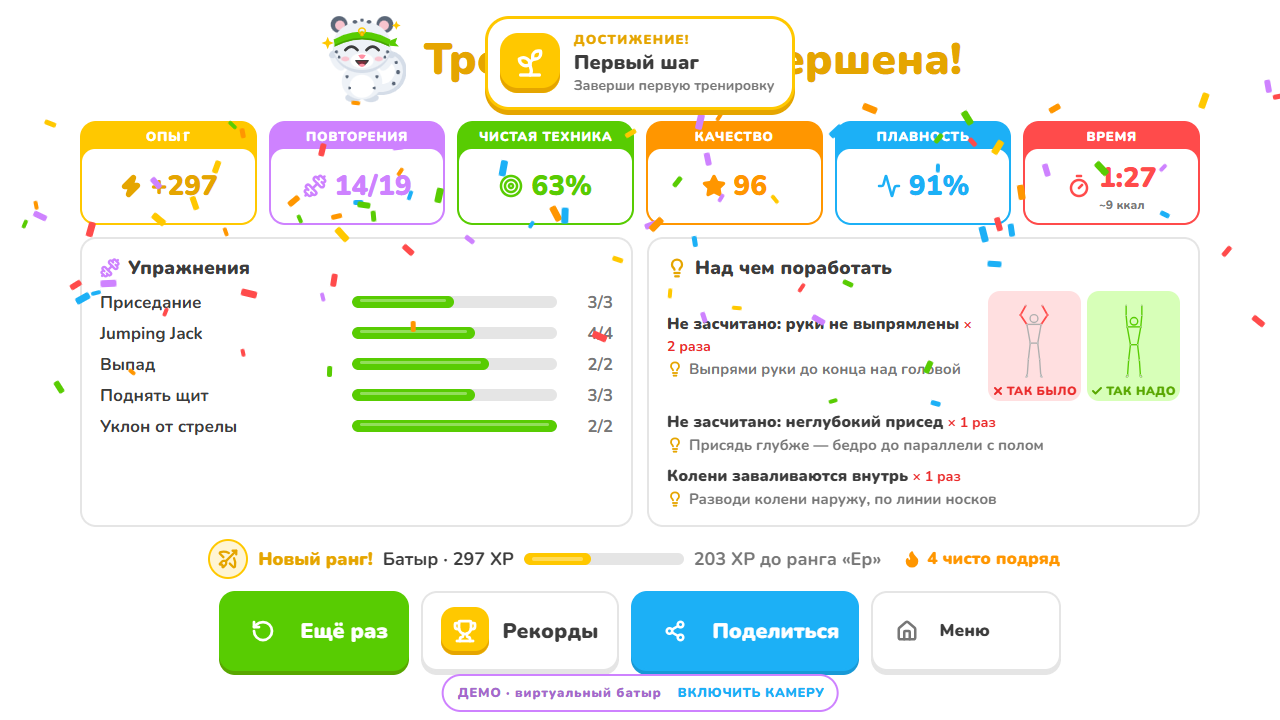
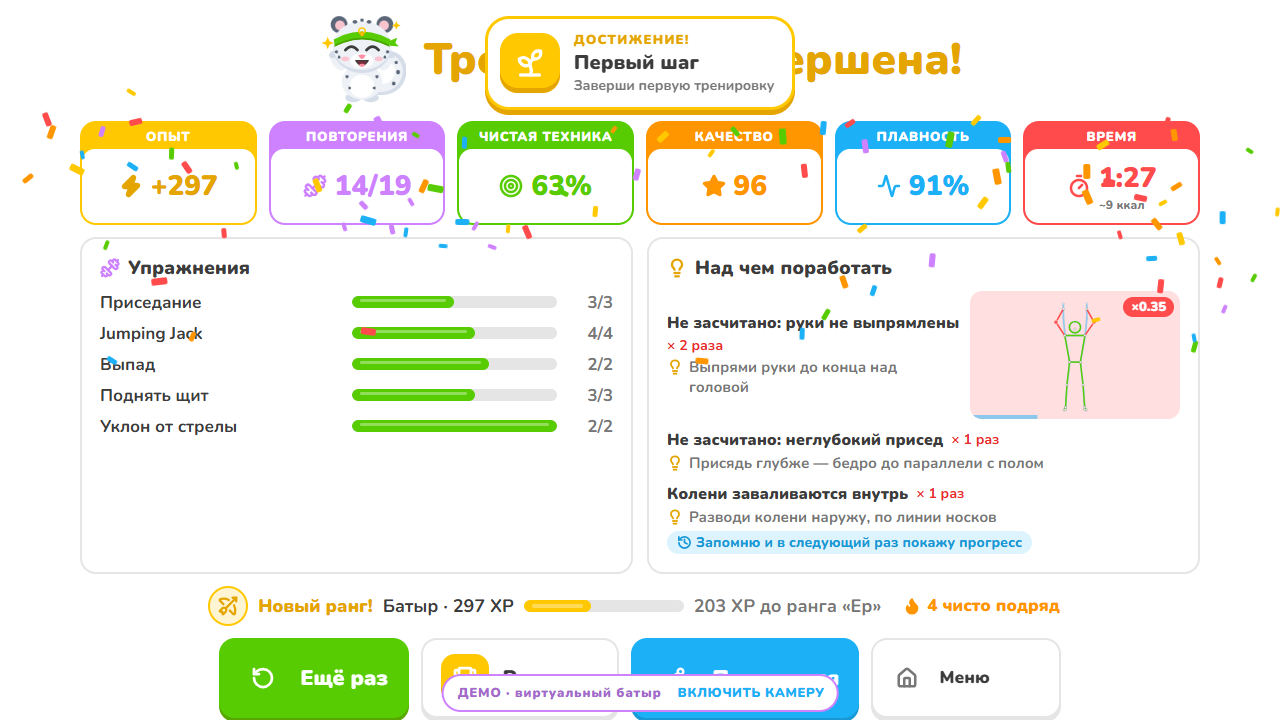
chore(release): v1.0.0 — ready for submission
- docs/SUBMISSION.md rewritten for the current app: 8 exercises (push-ups from the side
  or the front), fist click, exit button, duel, Qara Zhorga, slow-motion replay,
  progress on mistakes, 34 technique + 10 framing rules, 235+ tests; checklist updated
  (what is done, what is left: push, Netlify branch, Supabase SQL).
- README: the new features, fresh screenshots from `npm run e2e -- --shots docs/img`
  (+ the dance and the duel in play; the leaderboard with sample records).
- e2e: the duel is joined and both players score, the exit button leaves it, the dance
  song starts and moves are judged — 31/31 checks pass.
- package.json version 1.0.0.

diff --git a/README.md b/README.md
@@ -16,10 +16,12 @@
 | ![intro](docs/img/intro.png) | ![results](docs/img/results.png) |
 | **Меню жестами: рука — курсор, «зеркало» камеры** | **Батыр Челлендж: команды, сердца, серия** |
 | ![menu](docs/img/menu.png) | ![challenge](docs/img/challenge.png) |
-| **Свободная тренировка: AI распознаёт упражнение** | **Рекорды, лидерборд, достижения** |
+| **Свободная тренировка: AI распознаёт упражнение** | **Лидерборд: пьедестал, твоё место, свободные места** |
 | ![free](docs/img/free.png) | ![records](docs/img/records.png) |
+| **«Қара жорға»: движения точно в долю под домбру** | **Дуэль: двое перед одной камерой** |
+| ![dance](docs/img/dance-play.png) | ![duel](docs/img/duel-play.png) |
 
-<sub>Скриншоты сняты автоматически (`npm run e2e -- --shots docs/img`) в демо-режиме: виртуальный батыр специально ошибается, движок сам находит ошибки.</sub>
+<sub>Скриншоты сняты автоматически (`npm run e2e -- --shots docs/img`) в демо-режиме: виртуальный батыр специально ошибается, движок сам находит ошибки. Лидерборд показан с примерными записями.</sub>
 
 ## Дизайн
 
@@ -60,7 +62,7 @@ npm run dev      # http://localhost:5173 (на localhost камера работ
 | `npm run dev` | dev-сервер |
 | `npm run build` | продакшн-сборка в `dist/` |
 | `npm test` | 230+ юнит-тестов (Vitest): геометрия, фильтр, движок, все упражнения (отжимания с двух ракурсов), жесты и кулак-клик, игра, дуэль, танец (движения, судья, демо-танцор), повтор ошибки, прогресс по ошибкам, i18n, демо, kNN, DTW, лидерборд, маскот |
-| `npm run e2e` | сквозной прогон в headless Chrome (нужен запущенный `npm run dev`): настоящая камера (фейковое устройство Chrome) → MediaPipe → подсказка «тебя не видно»; демо целиком: ошибка техники, итоги, рекорды, челлендж, свободная тренировка, телефон; все кнопки на экране, нет ошибок в консоли |
+| `npm run e2e` | сквозной прогон в headless Chrome (нужен запущенный `npm run dev`): настоящая камера (фейковое устройство Chrome) → MediaPipe → подсказка «тебя не видно»; демо целиком: ошибка техники, итоги, рекорды, челлендж, свободная тренировка, дуэль, «Қара жорға», кнопка «Выйти», телефон; все кнопки на экране, нет ошибок в консоли |
 | `npm run train` | дообучить kNN-классификатор на записях движений команды (`tests/fixtures`) |
 | `npm run lint` / `npm run typecheck` | ESLint / TypeScript strict |
 | `?dev=1` в URL | инструменты разработчика: живые признаки, отладка правил, запись движений в JSON |
@@ -122,6 +124,10 @@ npm run dev      # http://localhost:5173 (на localhost камера работ
 - **Замедленный повтор ошибки:** после подхода худший повтор проигрывается скелетом ×0.35, суставы с ошибкой красные,
   на пике — «призрак» правильной позы. Видео не пишется — только точки позы.
 - **Прогресс по ошибкам:** «Колени внутрь: было 40% → сейчас 10% ↓» в итогах и карточка «Работа над ошибками» в профиле.
+- **Кнопка «Выйти»** в левом верхнем углу каждого экрана с камерой (тренировка, челлендж, дуэль, танец): мышью, касанием
+  или рукой — курсор появляется, только когда рука над кнопкой, и не мешает упражнению.
+- **Звук:** все звуки идут через общий ограничитель громкости, ноты затухают без щелчков, струна глушит свою
+  предыдущую ноту; переключатель «Звук» выключает и голос, и эффекты, и музыку; голос не «залипает» в Chrome.
 
 ## Движения → действия
 
